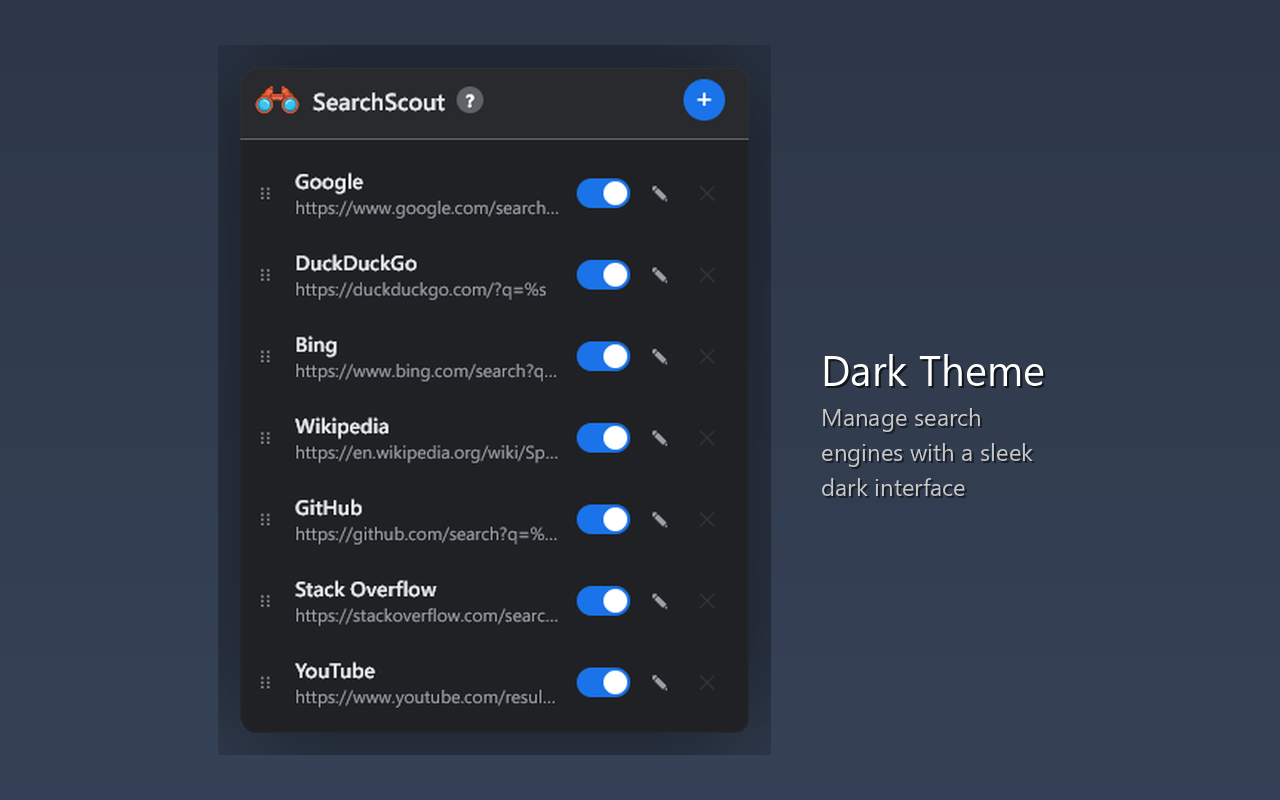
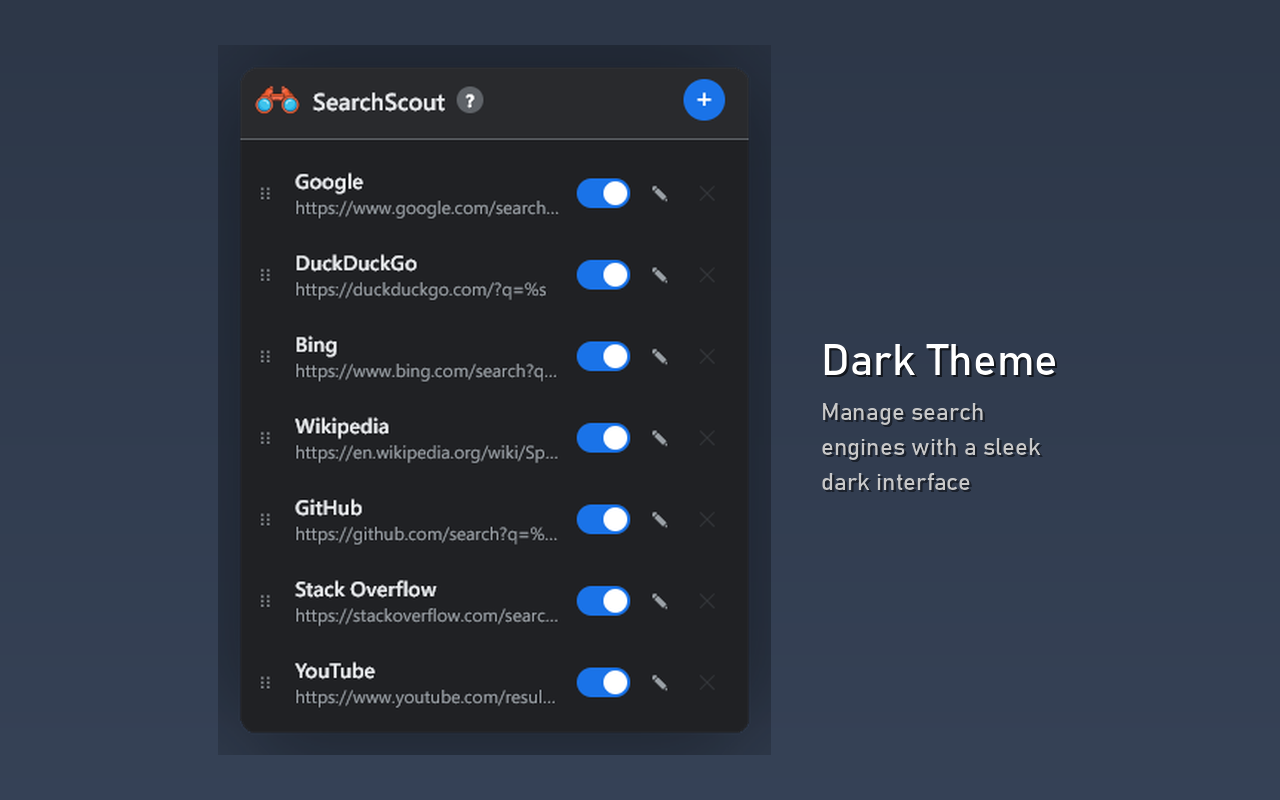
Use Bahnschrift font for modern, geometric look
🤖 Generated with [Claude Code](https://claude.com/claude-code)

Changed region(s): [[0.625, 0.4062, 0.8438, 0.625]]

diff --git a/create-store-images.py b/create-store-images.py
@@ -153,17 +153,21 @@ def create_store_image(screenshot_path, output_path, annotation=None, annotation
     if annotation:
         draw = ImageDraw.Draw(background)
 
-        # Load fonts
+        # Load fonts - using Bahnschrift for modern, geometric look
         try:
-            title_font = ImageFont.truetype("segoeui.ttf", 42)
-            subtitle_font = ImageFont.truetype("segoeui.ttf", 24)
+            title_font = ImageFont.truetype("bahnschrift.ttf", 44)
+            subtitle_font = ImageFont.truetype("bahnschrift.ttf", 24)
         except:
             try:
-                title_font = ImageFont.truetype("arial.ttf", 42)
-                subtitle_font = ImageFont.truetype("arial.ttf", 24)
+                title_font = ImageFont.truetype("segoeui.ttf", 42)
+                subtitle_font = ImageFont.truetype("segoeui.ttf", 24)
             except:
-                title_font = ImageFont.load_default()
-                subtitle_font = ImageFont.load_default()
+                try:
+                    title_font = ImageFont.truetype("arial.ttf", 42)
+                    subtitle_font = ImageFont.truetype("arial.ttf", 24)
+                except:
+                    title_font = ImageFont.load_default()
+                    subtitle_font = ImageFont.load_default()
 
         # Parse annotation (title and optional subtitle)
         if isinstance(annotation, dict):
